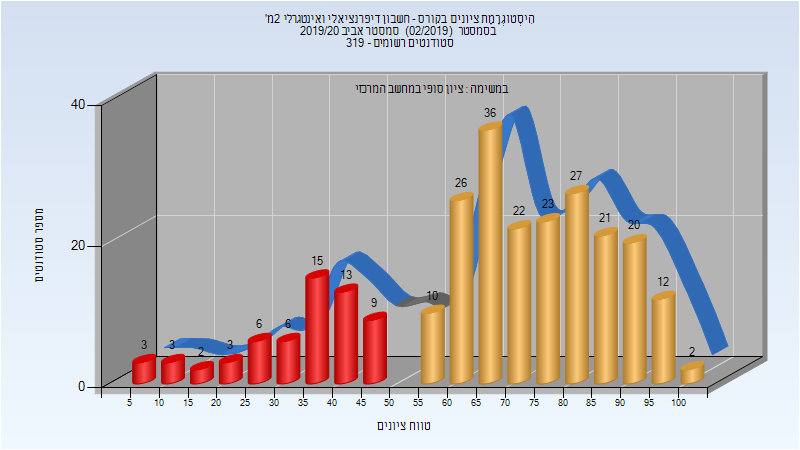
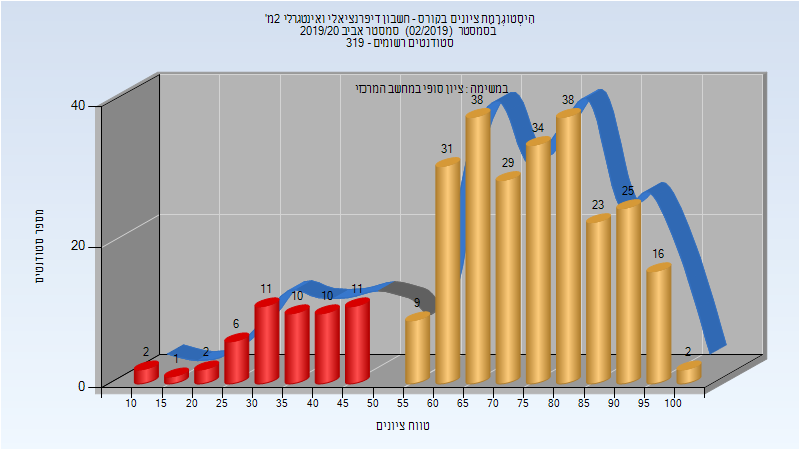
Deploy michael-maltsev/technion-histograms to github.com/michael-maltsev/technion-histograms.git:gh-pages

Changed region(s): [[0.0938, 0.1556, 0.9688, 0.9022], [0.0312, 0.4667, 0.0625, 0.6222], [0.4688, 0.9333, 0.5625, 0.9644]]

diff --git a/034028/index.html b/034028/index.html
@@ -1370,6 +1370,58 @@
 </tr>
 </tbody>
 </table>
+<h3>מבחן מועד ב'</h3>
+<p><img src="201902/Exam_B.png" alt="201902 Exam_B" /></p>
+<table>
+<thead>
+<tr>
+<th>סטודנטים</th>
+<th>עברו/נכשלו</th>
+<th>אחוז עוברים</th>
+<th>ציון מינימלי</th>
+<th>ציון מקסימלי</th>
+<th>ממוצע</th>
+<th>חציון</th>
+</tr>
+</thead>
+<tbody>
+<tr>
+<td>58</td>
+<td>33/25</td>
+<td>57</td>
+<td>14.6</td>
+<td>95</td>
+<td>60.055</td>
+<td>62.6</td>
+</tr>
+</tbody>
+</table>
+<h3>סופי מועד ב'</h3>
+<p><img src="201902/Final_B.png" alt="201902 Final_B" /></p>
+<table>
+<thead>
+<tr>
+<th>סטודנטים</th>
+<th>עברו/נכשלו</th>
+<th>אחוז עוברים</th>
+<th>ציון מינימלי</th>
+<th>ציון מקסימלי</th>
+<th>ממוצע</th>
+<th>חציון</th>
+</tr>
+</thead>
+<tbody>
+<tr>
+<td>58</td>
+<td>40/18</td>
+<td>69</td>
+<td>15</td>
+<td>95</td>
+<td>62.121</td>
+<td>64.5</td>
+</tr>
+</tbody>
+</table>
 <h3>סופי</h3>
 <p><img src="201902/Finals.png" alt="201902 Finals" /></p>
 <table>

diff --git a/125013/index.html b/125013/index.html
@@ -1152,11 +1152,11 @@
 </thead>
 <tbody>
 <tr>
-<td>עמירב דרורי לילך</td>
+<td>דה-רויטר גרהם</td>
 <td>מדריך מעבדה - עם הרשאות מרצה אחראי</td>
 </tr>
 <tr>
-<td>דה-רויטר גרהם</td>
+<td>עמירב דרורי לילך</td>
 <td></td>
 </tr>
 <tr>

diff --git a/104022/index.html b/104022/index.html
@@ -2016,13 +2016,13 @@
 </thead>
 <tbody>
 <tr>
-<td>259</td>
-<td>199/60</td>
-<td>77</td>
-<td>6</td>
+<td>298</td>
+<td>245/53</td>
+<td>82</td>
+<td>10</td>
 <td>100</td>
-<td>66.402</td>
-<td>69</td>
+<td>69.47</td>
+<td>72</td>
 </tr>
 </tbody>
 </table>

diff --git a/034028/README.md b/034028/README.md
@@ -425,6 +425,22 @@
 | ---- | ---- | ---- | ---- | ---- | ---- | ---- |
 | 106 | 78/28 | 74 | 25 | 100 | 64.774 | 63.5 |
 
+### מבחן מועד ב'
+
+![201902 Exam_B](201902/Exam_B.png)
+
+| סטודנטים | עברו/נכשלו | אחוז עוברים | ציון מינימלי | ציון מקסימלי | ממוצע | חציון |
+| ---- | ---- | ---- | ---- | ---- | ---- | ---- |
+| 58 | 33/25 | 57 | 14.6 | 95 | 60.055 | 62.6 |
+
+### סופי מועד ב'
+
+![201902 Final_B](201902/Final_B.png)
+
+| סטודנטים | עברו/נכשלו | אחוז עוברים | ציון מינימלי | ציון מקסימלי | ממוצע | חציון |
+| ---- | ---- | ---- | ---- | ---- | ---- | ---- |
+| 58 | 40/18 | 69 | 15 | 95 | 62.121 | 64.5 |
+
 ### סופי
 
 ![201902 Finals](201902/Finals.png)

diff --git a/125013/README.md b/125013/README.md
@@ -339,8 +339,8 @@
 
 | איש סגל | תפקיד |
 | ---- | ---- |
-| עמירב דרורי לילך | מדריך מעבדה - עם הרשאות מרצה אחראי |
-| דה-רויטר גרהם |  |
+| דה-רויטר גרהם | מדריך מעבדה - עם הרשאות מרצה אחראי |
+| עמירב דרורי לילך |  |
 | אגמי איריס | מדריך מעבדה |
 | פוקרא מוחמד | מדריך מעבדה |
 | מג'דוב מחמוד | מדריך מעבדה |

diff --git a/104022/README.md b/104022/README.md
@@ -633,5 +633,5 @@
 
 | סטודנטים | עברו/נכשלו | אחוז עוברים | ציון מינימלי | ציון מקסימלי | ממוצע | חציון |
 | ---- | ---- | ---- | ---- | ---- | ---- | ---- |
-| 259 | 199/60 | 77 | 6 | 100 | 66.402 | 69 |
+| 298 | 245/53 | 82 | 10 | 100 | 69.47 | 72 |
 
